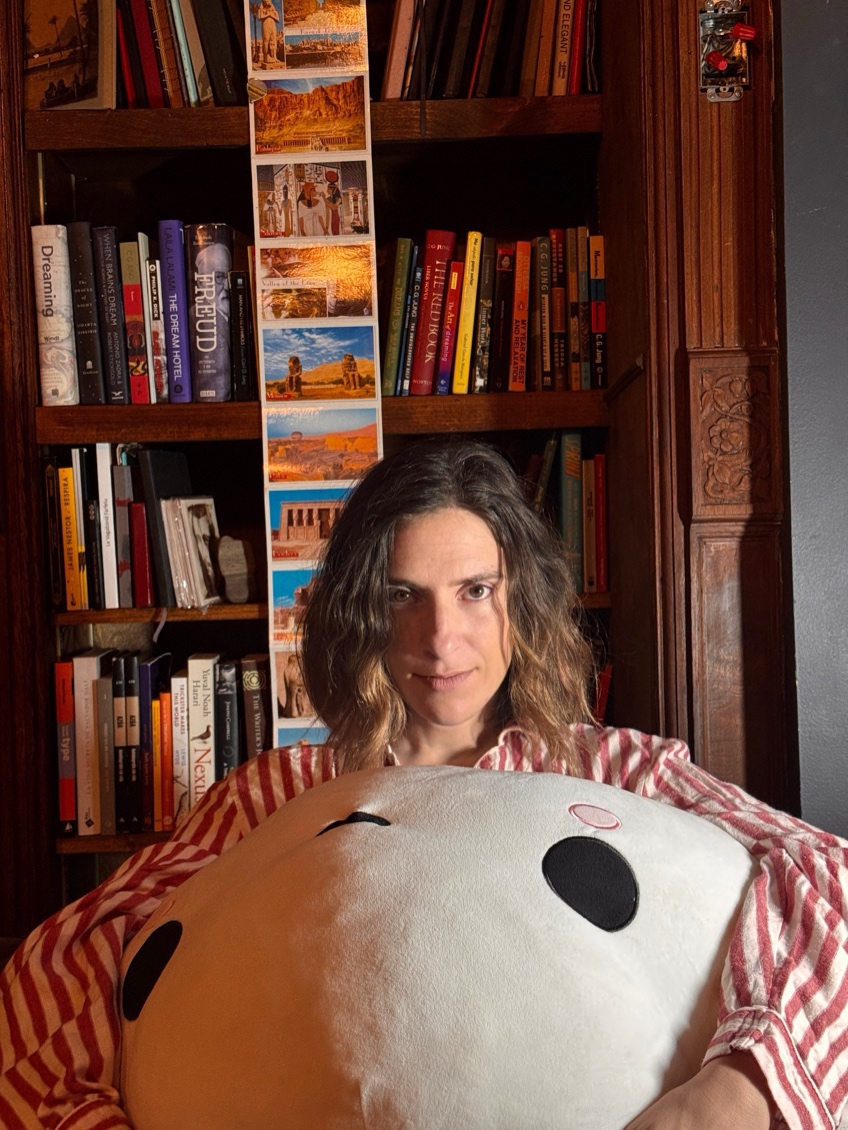
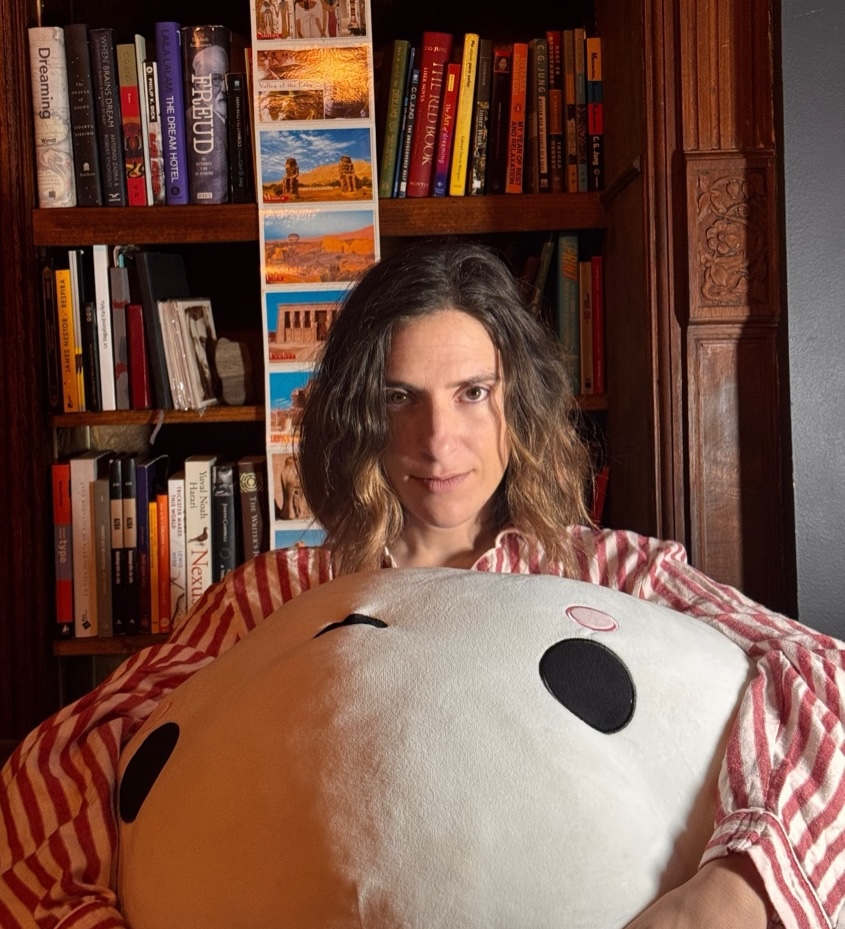
Recrop portrait to center on face at 30%

diff --git a/index.html b/index.html
@@ -156,7 +156,7 @@
     .about-header { margin-bottom: 2rem; }
     .about-body { display: grid; grid-template-columns: 1fr 1fr; gap: 3rem; align-items: start; }
     .about-photo { width: 100%; }
-    .about-photo img { width: 100%; max-height: 480px; object-fit: cover; object-position: center 15%; border-radius: 6px; }
+    .about-photo img { width: 100%; max-height: 480px; object-fit: cover; object-position: center 30%; border-radius: 6px; }
     .about-photo { display: flex; flex-direction: column; }
     .about-photo .hero-photo-frame { aspect-ratio: unset; height: 100%; min-height: 200px; }
     .about-label { font-family: var(--ff-display); font-size: 0.68rem; letter-spacing: 0.26em; text-transform: uppercase; color: var(--sun-deep); margin-bottom: 2rem; display: inline-flex; align-items: center; gap: 0.75rem; background: rgba(255,255,255,0.72); backdrop-filter: blur(8px); -webkit-backdrop-filter: blur(8px); padding: 0.25rem 0.85rem 0.25rem 0.6rem; border-radius: 20px; border: 1px solid rgba(255,255,255,0.9); }
